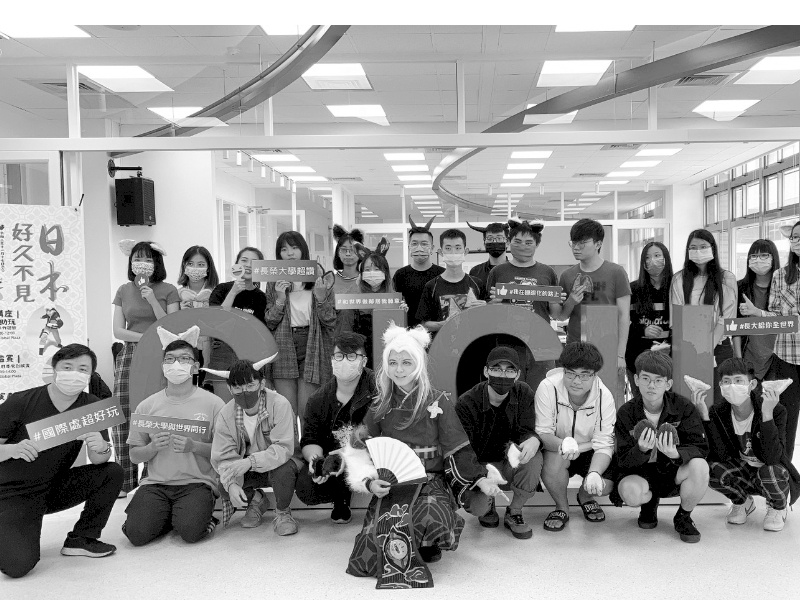
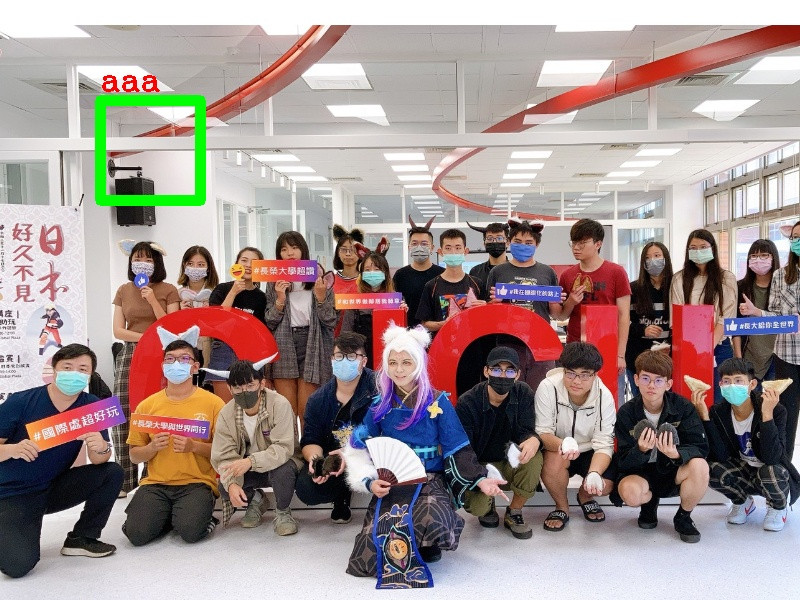
rectangle, putText

diff --git a/test-video.py b/test-video.py
@@ -1,0 +1,21 @@
+import cv2
+
+# 選擇第二隻攝影機
+cap = cv2.VideoCapture(0)
+
+while(True):
+  # 從攝影機擷取一張影像
+  ret, frame = cap.read()
+
+  # 顯示圖片
+  cv2.imshow('frame', frame)
+
+  # 若按下 q 鍵則離開迴圈
+  if cv2.waitKey(1) & 0xFF == ord('q'):
+    break
+
+# 釋放攝影機
+cap.release()
+
+# 關閉所有 OpenCV 視窗
+cv2.destroyAllWindows()

diff --git a/test2.py b/test2.py
@@ -1,7 +1,10 @@
 import numpy as np
 import cv2
 
-img = cv2.imread('test1.jpg',0)
+img = cv2.imread('test1.jpg')
+# print(img)
+cv2.rectangle(img,(100,100),(200,200),(0,255,0),10)
+cv2.putText(img,'aaa',(100,90), cv2.FONT_HERSHEY_COMPLEX, 1,(0,0,255),2)
 cv2.namedWindow('image', cv2.WINDOW_NORMAL)
 cv2.imshow('image',img)
 cv2.imwrite('test2.jpg',img)

diff --git a/test3.py b/test3.py
@@ -1,0 +1,9 @@
+import numpy as np
+import cv2
+from matplotlib import pyplot as plt
+
+img = cv2.imread('test1.jpg')
+img1 = cv2.cvtColor(img,cv2.COLOR
+plt.imshow(img1)
+#plt.xticks([]), plt.yticks([]) # to hide tick values on X and Y axis
+plt.show()
